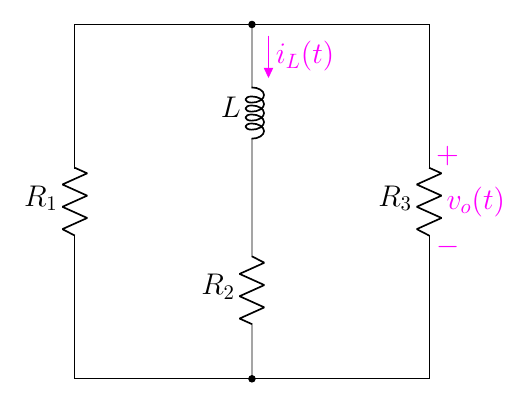
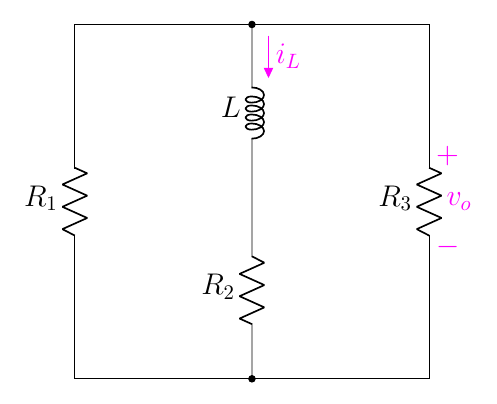
7.22

diff --git a/2.1 Source-Free RL/7.3 Source-Free RL/7.22(new).tex b/2.1 Source-Free RL/7.3 Source-Free RL/7.22(new).tex
@@ -12,10 +12,10 @@
 
     %%% find %%%
     \draw[circuitikz/current arrow color=magenta](3,6)
-        to[L,l_=\lname{},f>^=$\color{magenta}{i_L(t)}$] ++(0,-3)
+        to[L,l_=\lname{},f>^=$\color{magenta}{i_L}$] ++(0,-3)
         to[R,l_=\rname{2}] ++(0,-3);
 
-    \draw[magenta](6,2) to[open, v>=$v_o(t)$] ++(0,2);
+    \draw[magenta](6,2) to[open, v>=$v_o$] ++(0,2);
         
 
 \end{circuitikz}
